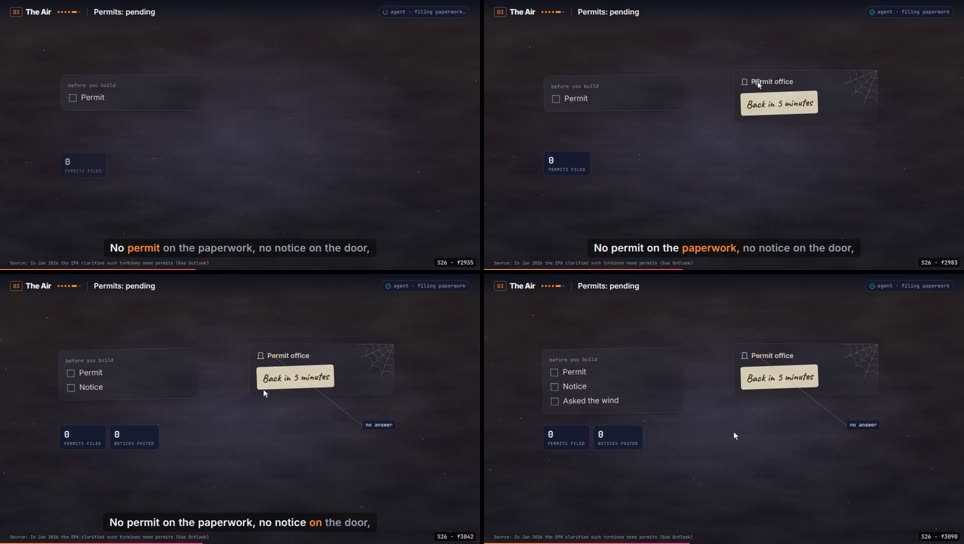
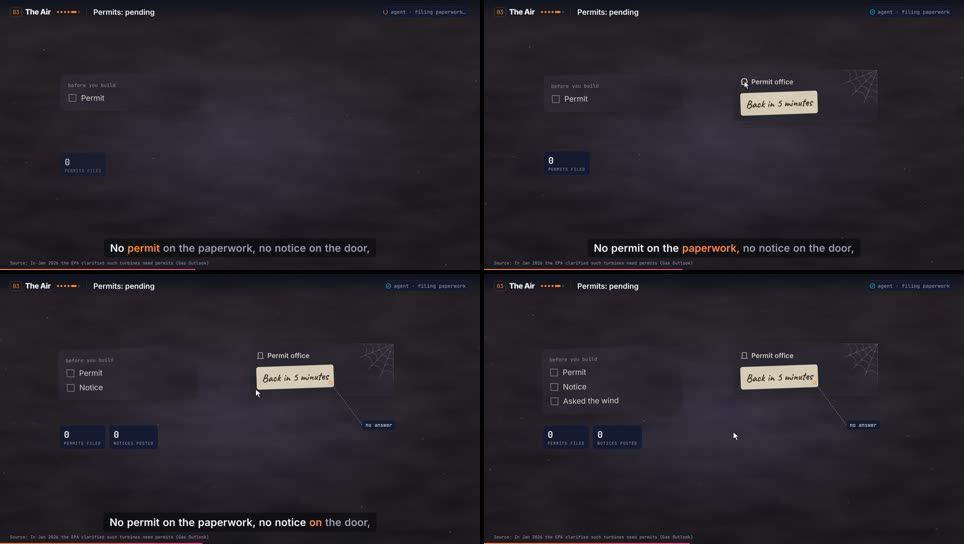
M5: Verse 2 and Verse 3 final renders; contact sheets
Claude-Session: https://claude.ai/code/session_01U1tVYjqjSmd5JP5bTWdgUW

diff --git a/log/renders.md b/log/renders.md
@@ -77,3 +77,11 @@ Every render: timestamp, shot ID, composition, props, commit hash, output, conta
   - "The Hum · always" sat on the wave's crests (S11, S16); it now sits above the wave (S11's "amplitude" note moved up to clear it). This touches Verse 1, hence v3.
   - S18's cloud tiles lingered beside the Memphis map; they fade as it arrives.
 - **Contact sheets:** `review/S05.jpg`–`S22.jpg` (`contact_sheets.py` now includes every shot that starts inside the section, so S21 gets one).
+
+## 2026-10-30T08:25 — M5 final: Verse 2 (S23–S27) and Verse 3 (S32–S38)
+
+- **Composition:** `Animatic`, `label: false`, 1080p, CRF 16. Frames 2562–3351 → `renders/m5/05_verse2.mp4` (26.3 s; commit b4bd7d0), 3352–4293 → `renders/m5/06_verse3.mp4` (31.4 s; commit ec29062).
+- **Full-res still pass before it** (scratch, 10 frames each) found:
+  - Verse 2: the "exhaust" leader crossed the whole turbine grid to a fan, now short and to a plume; "no answer" sat on the "Permit office" title, now points at the sign (the cursor knocks on the door icon); the lawyers' briefcases overlapped the last house.
+  - Verse 3: the peace sign on the 1979 banner drew no circle (an SVG arc with equal ends draws nothing; `PeaceToPower` now keeps a 1° gap) and sat off-center; the "hand-lettered" leader crossed the banner (label now under the photo); the timeline labels touched the caption bar (moved up 20 px); S36's cord ran behind the stat tiles and began in midair (now enters from the frame edge, below the tiles).
+- **Contact sheets:** `review/S23.jpg`–`S27.jpg`, `review/S32.jpg`–`S38.jpg` (with S33a, S36a).

diff --git a/log/production_log.md b/log/production_log.md
@@ -184,3 +184,7 @@ Append-only. One entry per action: timestamp, step (shot ID where relevant), wha
 ## 2026-10-30T07:15 — M5: Chorus 1 and Span 1 approved
 
 - Human approved Chorus 1, Span 1 and Verse 1 v3 (H2). Next: Verse 2 (S23–S27).
+
+## 2026-10-30T08:25 — M5: Verse 2 and Verse 3 final renders
+
+- Full-res still passes, fixes and renders listed in renders.md. Sent both for approval. Noted for the human: the cord in S05–S11 and S12 also begins in midair at the stage's left edge (approved sections, left as is unless asked).
